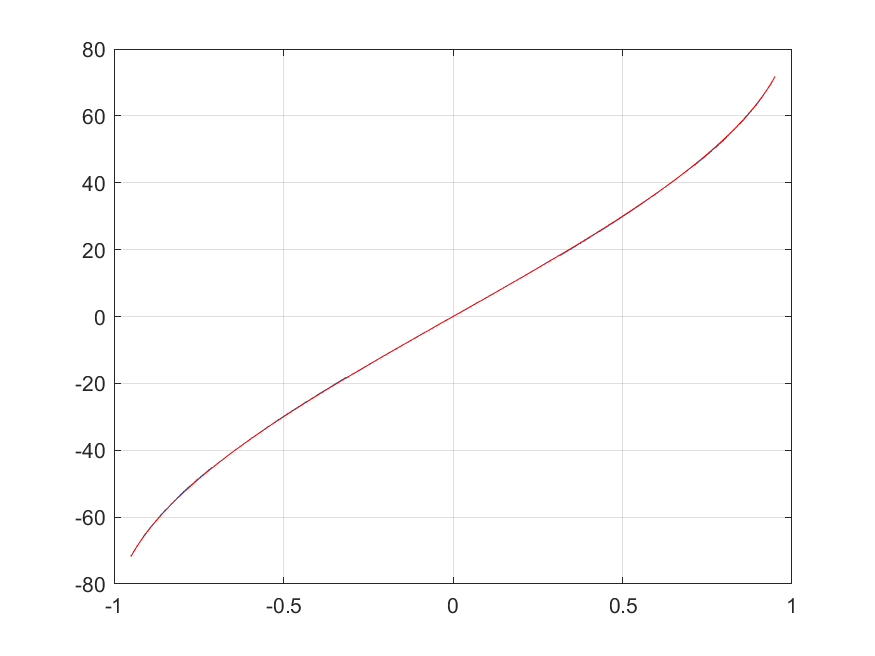
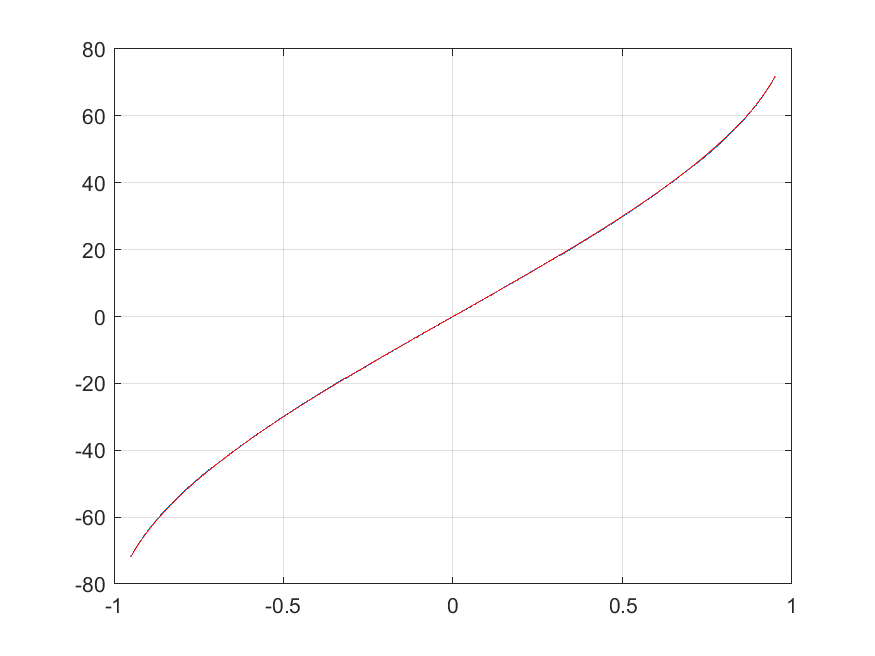
增加测试Tb

Changed region(s): [[0.4937, 0.4573, 0.5246, 0.5183], [0.4937, 0.061, 0.5246, 0.0915], [0.3086, 0.9146, 0.3394, 0.9451]]

diff --git a/matlab_src/arcsin/arcsin_fix/arcsin_fixed.m b/matlab_src/arcsin/arcsin_fix/arcsin_fixed.m
@@ -27,25 +27,22 @@ function [ar] = arcsin_fixed(target)
     T = floor(abs_target * INIT_Target / 2^(exp_dp));
     
     for i = 1:M-1
+            X_current = X;
+            Y_current = Y;
+            X_shift = floor(X_current / 2^i);
+            Y_shift = floor(Y_current / 2^i);
+            T_shift = floor(T / (2^(2*i+1)));
         if Y < T
-            delta = 1;
+            X = X_current - Y_shift;
+            Y = Y_current + X_shift;
+            Z = Z + angle_rom(i);
+            T = T + T_shift;
         else
-            delta = -1;
+            X = X_current + Y_shift;
+            Y = Y_current - X_shift;
+            Z = Z - angle_rom(i);
+            T = T + T_shift;
         end
-        
-        X_current = X;
-        Y_current = Y;
-
-        X_shift = floor(X_current / 2^i);
-        Y_shift = floor(Y_current / 2^i);
-        T_shift = floor(T / (2^(2*i+1)));
-
-        X = X_current - delta * Y_shift;
-        Y = Y_current + delta * X_shift;
-
-        Z = Z + delta * angle_rom(i);
-        
-        T = T + T_shift;
     end
     
     if is_negative

diff --git a/matlab_src/arcsin/arcsin_fix/gen_xyzt_record.m b/matlab_src/arcsin/arcsin_fix/gen_xyzt_record.m
@@ -104,7 +104,21 @@ fclose(fid);
 
 writematrix(results, output_file, 'WriteMode', 'append');
 
+%% 保存定点化输入与输出到单独的 txt 文件
+target_fix_file = 'report/target_fix.txt';
+ar_fix_file = 'report/ar_fix.txt';
+
+fid_target = fopen(target_fix_file, 'w');
+fprintf(fid_target, '%d\n', results(:, 2));
+fclose(fid_target);
+
+fid_ar = fopen(ar_fix_file, 'w');
+fprintf(fid_ar, '%d\n', results(:, 7));
+fclose(fid_ar);
+
 fprintf('处理完成。结果已保存至: %s\n', output_file);
+fprintf('定点化输入(Target_Fix)已保存至: %s\n', target_fix_file);
+fprintf('定点化输出(AR_Fix)已保存至: %s\n', ar_fix_file);
 disp('前 5 行数据预览:');
 disp(headers);
 disp(results(1:min(5, num_test_cases), :));
